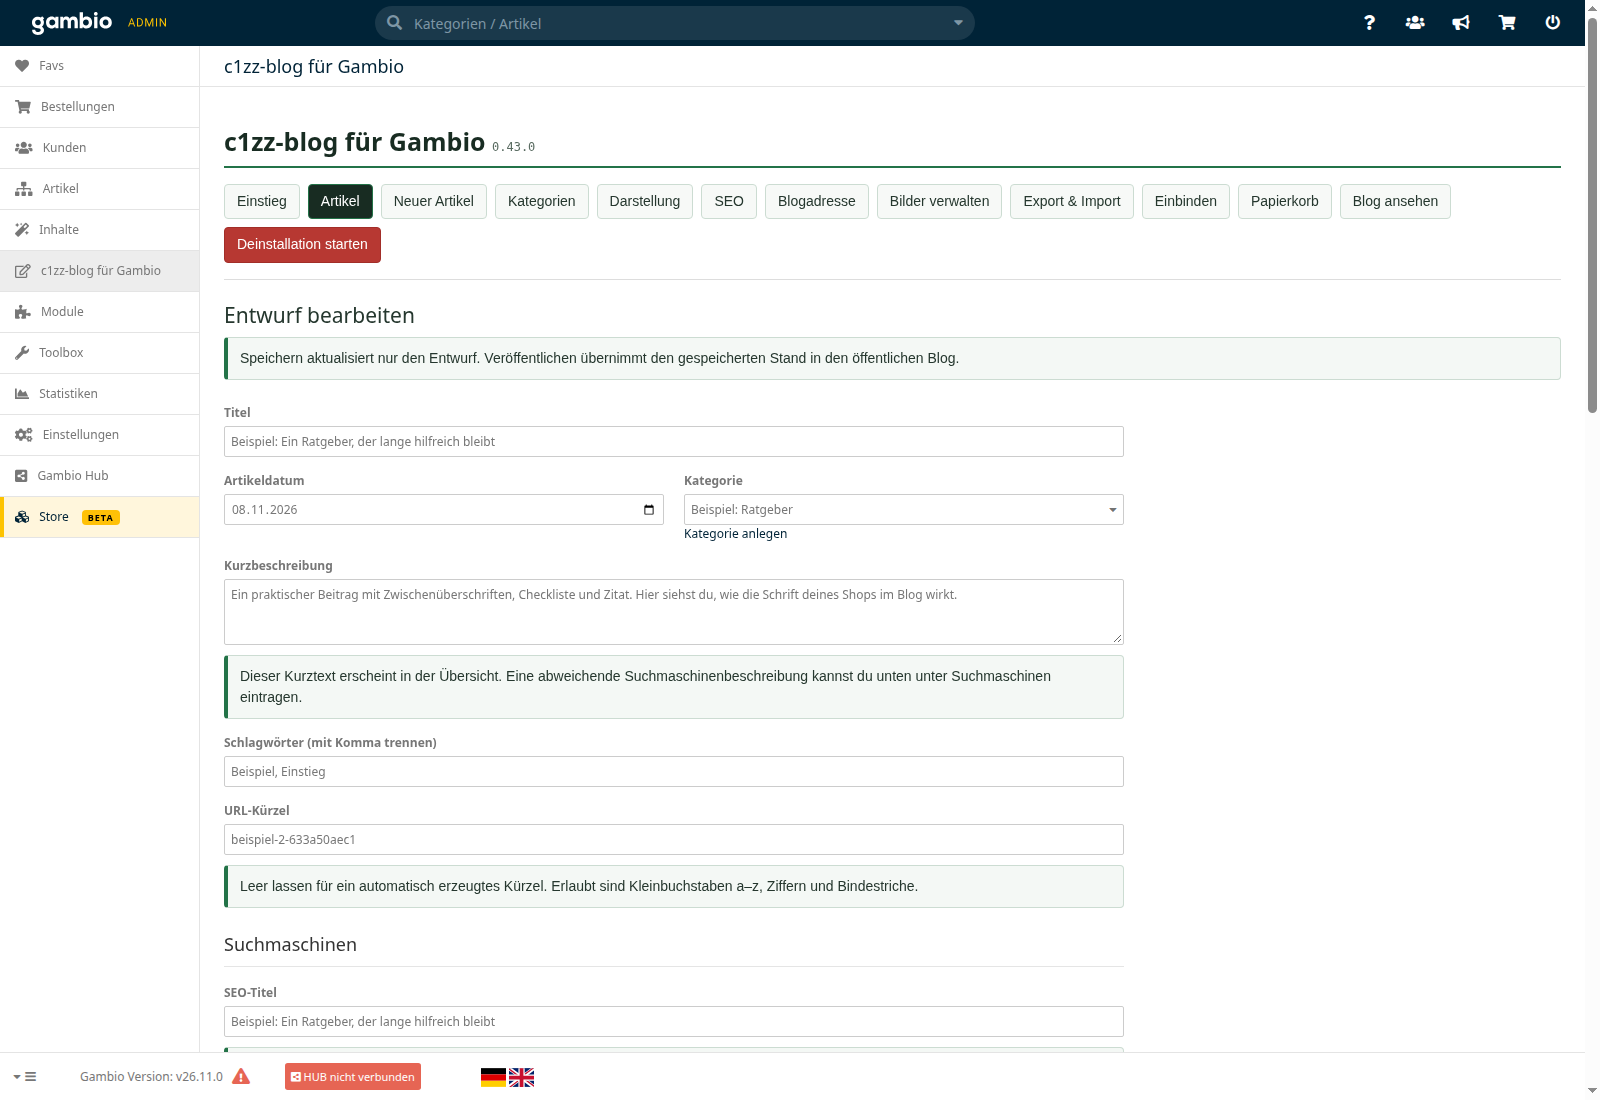
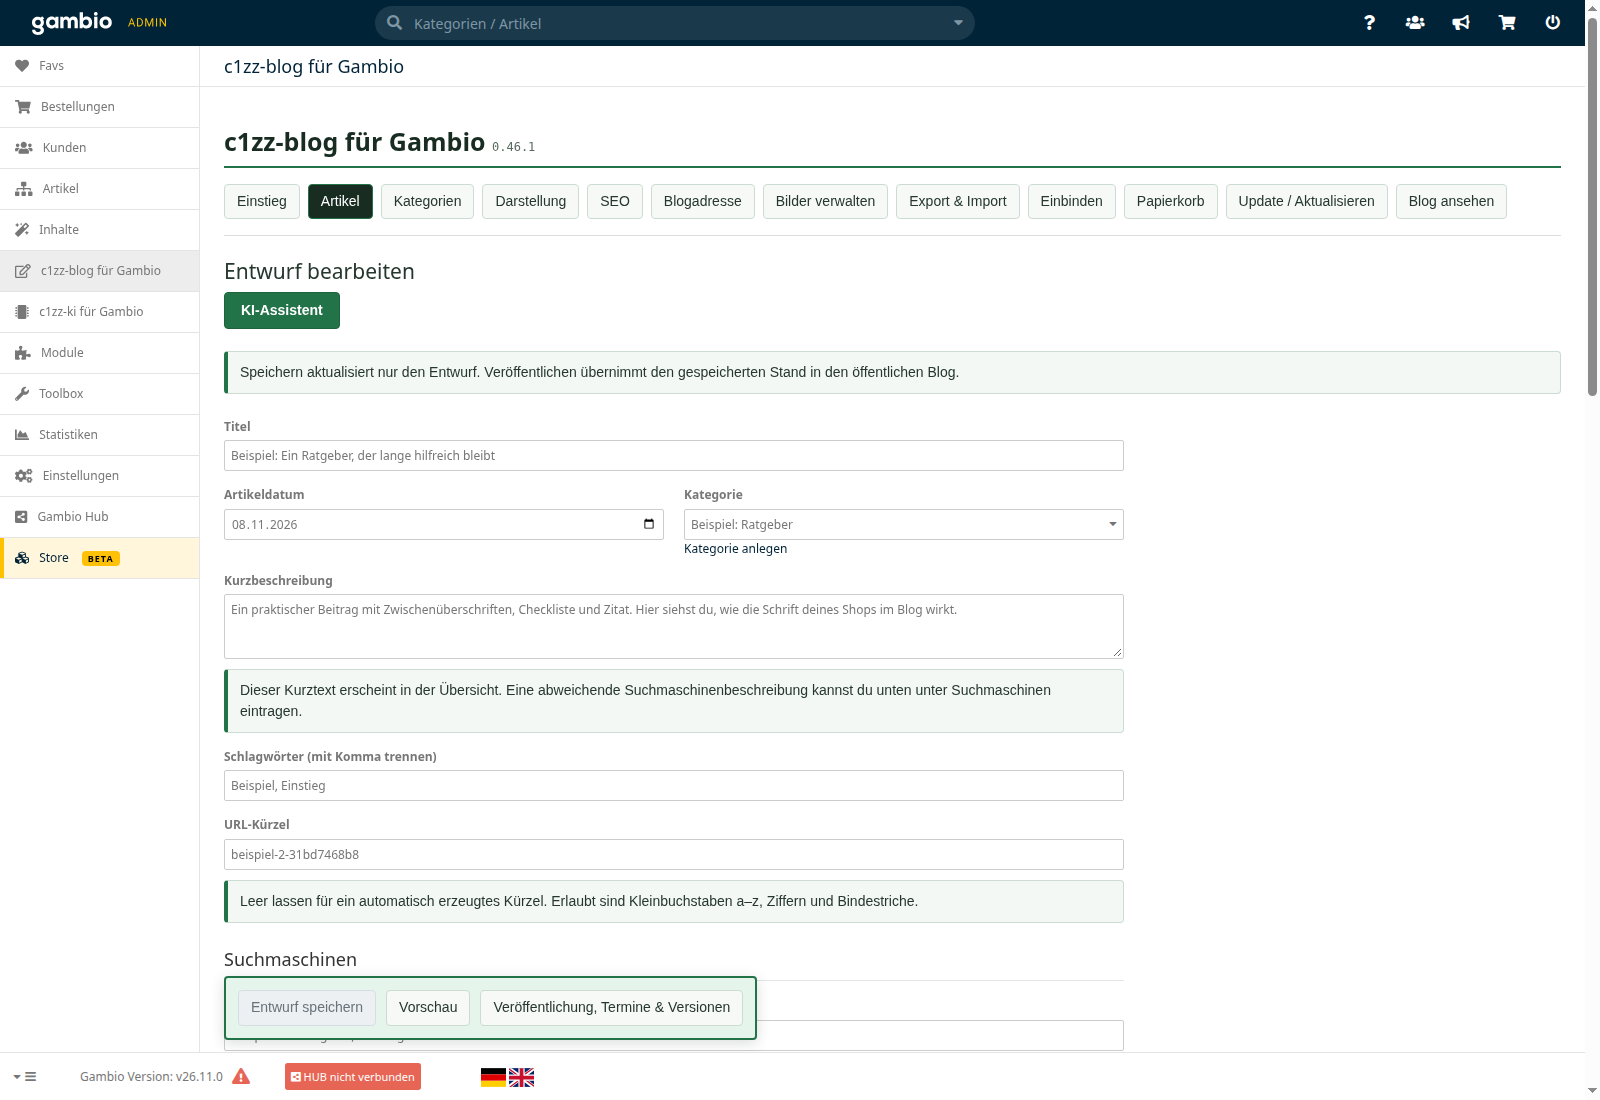
Refresh all 14 blog screenshots for 0.46.1

diff --git a/docs/BILDERRUNDGANG.md b/docs/BILDERRUNDGANG.md
@@ -1,8 +1,8 @@
 # c1zz-blog für Gambio in Bildern
 
-Dreizehn echte Ansichten zeigen den Weg vom Einstieg über das Schreiben und Gestalten bis zum öffentlichen Blog. Klicke auf ein Bild, um die Bedienelemente in Originalgröße zu lesen.
+Vierzehn aktuelle Ansichten zeigen den Weg vom Einstieg über das Schreiben und Gestalten bis zum öffentlichen Blog. Klicke auf ein Bild, um die Bedienelemente in Originalgröße zu lesen.
 
-**Aufnahmen vom 09.11.2026:** Artikelverwaltung und Modul-Center wurden mit 0.44.0 im lokalen GX26-Testshop erneuert; die Liste zeigt ausschließlich optionale Beispielartikel. Die übrigen Ansichten stammen aus 0.43.0 im damals frischen, anschließend entfernten GX26-Shop und zeigen die unveränderten Funktionen. Ältere Aufnahmen enthalten noch den früheren separaten Navigationspunkt „Neuer Artikel“. Die Detailbilder zeigen gezielte Ausschnitte. Das Erscheinungsbild hängt vom Theme und den Einstellungen ab. [Teststand](KOMPATIBILITAET.md).
+**Aufnahmen vom 10.11.2026, Blog 0.46.1 / KI 0.11.1:** Alle Ansichten wurden im lokalen Gambio-26.11.0-Shop mit Malibu neu aufgenommen. Die Artikelverwaltung ist auf die optionalen Beispielartikel gefiltert; öffentliche Ansichten zeigen Beispiel- und Testinhalte. Für die Aufnahmen wurden weder Artikel noch Einstellungen gespeichert, keine Veröffentlichung gestartet und keine KI-Anfrage ausgelöst. Die Detailbilder zeigen gezielte Ausschnitte. Das Erscheinungsbild hängt vom Theme und den Einstellungen ab. [Teststand](KOMPATIBILITAET.md).
 
 [Zur Projektübersicht](../README.md) · [Zur Installation](INSTALLATION.md)
 
@@ -21,6 +21,7 @@ Dreizehn echte Ansichten zeigen den Weg vom Einstieg über das Schreiben und Ges
 | [11. Eigenes CSS](#ansicht-11) | Vorschau, visuelle Regler und Code pro Elementtyp |
 | [12. Hilfetexte](#ansicht-12) | Hervorgehobene Hinweise in der Verwaltung |
 | [13. Modul-Center](#ansicht-13) | Einheitlicher Produktname und tatsächlicher Modulstand |
+| [14. Update / Aktualisieren](#ansicht-14) | Versionsstatus, Prüfzeit und abgeschlossener Updateablauf |
 
 <a id="ansicht-1"></a>
 
@@ -74,7 +75,7 @@ Der Ausschnitt zeigt die Freigabe eines gespeicherten Entwurfs, die Terminplanun
 
 ## 7. Darstellung mit Vorschau
 
-Im grafischen Editor wählst du Geräteansicht und Bereich, zum Beispiel Layout, Karte, Bild oder Text. Hier zeigt der Ausschnitt eine **ungespeicherte Grid-Vorschau** mit drei Spalten und den passenden Layoutoptionen. Die Grid-/Slider-Einstellungen wurden ausschließlich im kurzlebigen Screenshot-Testshop gesetzt. Die gezeigte Vorschau wurde nicht gespeichert.
+Im grafischen Editor wählst du Geräteansicht und Bereich, zum Beispiel Layout, Karte, Bild oder Text. Hier zeigt der Ausschnitt eine **Grid-Vorschau** mit drei Spalten und den passenden Layoutoptionen. Die Vorschau wurde für die Aufnahme geöffnet; gespeicherte Shop-Einstellungen wurden dabei nicht verändert.
 
 [![Grafischer Editor mit Grid-Vorschau und Layoutoptionen für Desktop](images/darstellung.png)](images/darstellung.png)
 
@@ -108,15 +109,15 @@ Bei 390 Pixeln Breite verwendet dieser Beispielshop einen Slider mit Pfeilen, Pu
 
 ## 11. Eigenes CSS am Element
 
-Regler und Farbauswahl bearbeiten dieselben Deklarationen wie der Reiter **CSS-Code**. Hier zeigen die Artikelkarten eine ungespeicherte Anpassung von Rundung, Rahmen und Hintergrund; die öffentliche Darstellung wurde für die Aufnahme nicht verändert.
+Regler und Farbauswahl bearbeiten dieselben Deklarationen wie der Reiter **CSS-Code**. Der Ausschnitt zeigt die aktuellen CSS-Werkzeuge für Artikelkarten; die öffentliche Darstellung wurde für die Aufnahme nicht verändert.
 
-[![Element-CSS mit Vorschau, Regler und Farbauswahl](images/element-css.png)](images/element-css.png)
+[![Element-CSS mit Vorschau, Gerätebereich und Eigenschaften](images/element-css.png)](images/element-css.png)
 
 <a id="ansicht-12"></a>
 
 ## 12. Sichtbare Hilfetexte
 
-Blaue Hinweisfelder heben die Erläuterungen zur Darstellung hervor. Auch Hilfen an einzelnen Eingabefeldern verwenden die gemeinsame Gestaltung.
+Hinweisfelder mit grünem Rand heben die Erläuterungen zur Darstellung hervor. Auch Hilfen an einzelnen Eingabefeldern verwenden die gemeinsame Gestaltung.
 
 [![Darstellung mit hervorgehobenen Hilfetexten](images/hilfetexte.png)](images/hilfetexte.png)
 
@@ -124,6 +125,14 @@ Blaue Hinweisfelder heben die Erläuterungen zur Darstellung hervor. Auch Hilfen
 
 ## 13. Name und Version im GX26-Modul-Center
 
-**c1zz-blog für Gambio** wird mit dem tatsächlichen Modulstand **0.45.0** angezeigt. Die Kennzeichnung **rc.1** gehört zur GitHub-Veröffentlichung.
+**c1zz-blog für Gambio** wird mit dem tatsächlichen Modulstand **0.46.1** angezeigt. Die Kennzeichnung **rc.1** gehört zur GitHub-Veröffentlichung.
 
-[![GX26-Modul-Center mit einheitlichem Namen und Version 0.45.0](images/modul-center.png)](images/modul-center.png)
+[![GX26-Modul-Center mit einheitlichem Namen und Version 0.46.1](images/modul-center.png)](images/modul-center.png)
+
+<a id="ansicht-14"></a>
+
+## 14. Update / Aktualisieren
+
+Die Modulverwaltung zeigt die installierte Version, das Ergebnis der letzten Updateprüfung und den gewählten Updatekanal. Der sichtbare Fortschritt stammt vom abgeschlossenen Update auf 0.46.1. Für die Aufnahme wurde nur erneut nach Updates gesucht, kein Update gestartet. „Blog ansehen“ bleibt in der Navigation; die Deinstallation steht separat am Seitenende.
+
+[![Aktueller Versionsstatus und abgeschlossener Updateablauf](images/aktualisieren.png)](images/aktualisieren.png)

diff --git a/README.md b/README.md
@@ -8,7 +8,7 @@ Aktuell: Deutlicher Versionsstatus unter **Update / Aktualisieren** und vollstä
 
 Artikel schreiben, Kategorien pflegen und die Darstellung direkt im Shop gestalten: **c1zz-blog für Gambio** ist ein eigenständig installierbares Blogmodul für Gambio. Du brauchst keinen vorbereiteten Blog und keine SSH-Nacharbeiten.
 
-**[Bilderrundgang mit 13 Ansichten](docs/BILDERRUNDGANG.md)** · **[Installer herunterladen](https://github.com/c1zz/gambio-blog/releases/download/v0.46.1-rc.1/c1zz-blog-install-0.46.1.php)** · **[Release & Prüfsummen](https://github.com/c1zz/gambio-blog/releases/tag/v0.46.1-rc.1)** · **[Installation](docs/INSTALLATION.md)** · **[Echtheit prüfen](SECURITY.md)**
+**[Bilderrundgang mit 14 Ansichten](docs/BILDERRUNDGANG.md)** · **[Installer herunterladen](https://github.com/c1zz/gambio-blog/releases/download/v0.46.1-rc.1/c1zz-blog-install-0.46.1.php)** · **[Release & Prüfsummen](https://github.com/c1zz/gambio-blog/releases/tag/v0.46.1-rc.1)** · **[Installation](docs/INSTALLATION.md)** · **[Echtheit prüfen](SECURITY.md)**
 
 > Dies ist ein **Release Candidate**. Bitte zuerst in einem Testshop prüfen und vor dem Einsatz den Shop sichern. Der interne Modulstand und der Dateiname lauten `0.46.1`; `rc.1` kennzeichnet diese Veröffentlichung.
 
@@ -82,11 +82,11 @@ Die grafische Darstellung und **Alle Einstellungen** bearbeiten dieselben Werte.
 
 [![Grafischer Darstellungseditor mit Grid-Vorschau, Gerätewahl und Layoutoptionen](docs/images/darstellung.png)](docs/images/darstellung.png)
 
-[![Eigenes CSS an Artikelkarten mit Regler, Farbauswahl und unmittelbarer Vorschau](docs/images/element-css.png)](docs/images/element-css.png)
+[![Eigenes CSS an Artikelkarten mit Gerätebereich, Eigenschaften und unmittelbarer Vorschau](docs/images/element-css.png)](docs/images/element-css.png)
 
 **Blogadressen bleiben steuerbar:** Beim Pfadwechsel entscheidest du, ob die bisherige Adresse weiterleiten soll. Gespeicherte Weiterleitungen kannst du unter **Blogadresse** ändern oder löschen. Hilfetexte sind im gemeinsamen c1zz-systems-Stil hervorgehoben. Entfernen, Löschen und Zurücksetzen eigener Werte sind rot markiert.
 
-Die Screenshots stammen aus dem lokalen GX26-Testshop mit Malibu und optionalen Beispielinhalten. Artikelverwaltung und Modul-Center zeigen den früheren Stand 0.44.0; die übrigen Funktionsansichten stammen aus 0.43.0 (09.11.2026). Der [Bilderrundgang](docs/BILDERRUNDGANG.md) zeigt auch den **mobilen Slider**. Das Aussehen hängt von deinem Theme und deinen Einstellungen ab.
+Alle Screenshots wurden am 10.11.2026 mit **Blog 0.46.1 und KI 0.11.1** im lokalen GX26-Testshop mit Malibu erneuert. Sie zeigen Beispiel- und Testinhalte sowie die aktuelle Navigation, Speicherleisten und Updateverwaltung. Der [Bilderrundgang](docs/BILDERRUNDGANG.md) zeigt auch den **mobilen Slider**. Das Aussehen hängt von deinem Theme und deinen Einstellungen ab.
 
 ## Was ist tatsächlich geprüft?
 

diff --git a/docs/KOMPATIBILITAET.md b/docs/KOMPATIBILITAET.md
@@ -29,6 +29,6 @@ Die GitHub-Antworten im frischen Shop waren ausschließlich in der temporären V
 
 Keine neue Freigabe für GX5, Honeygrid, PHP 8.3, MySQL 8.4 oder Unterverzeichnisinstallationen. Der neue Weg verwendet konfigurierte Shopverzeichnisse, wurde in diesem Durchlauf aber im Shop-Hauptverzeichnis geprüft. Kein unabhängiger Penetrationstest. Die Herkunftssignatur wird im Shop noch nicht kryptografisch geprüft.
 
-[Maschinelle Ergebnisse und Paketprüfsummen](test-results.json). Die vorhandenen Screenshots zeigen weiterhin die jeweils im Bilderrundgang angegebenen älteren Oberflächenstände.
+[Maschinelle Ergebnisse und Paketprüfsummen](test-results.json). Die Dokumentationsbilder wurden am 10.11.2026 separat mit Blog 0.46.1 und KI 0.11.1 erneuert; Einzelheiten stehen im Bilderrundgang.
 
 Nach der öffentlichen Freigabe: beide Installer mit dem echten Updater aus GX26 ohne GitHub-Zugangsdaten heruntergeladen und alle 197 Paketdateien geprüft, ohne Moduldateien zu verändern. Weitere 6 native Chromiumprüfungen bestätigen die echten GitHub-Abfragen beider Updatebereiche. Herkunftsnachweise mit der GitHub CLI gegen Repository, Workflow, Release-Tag und exakten Commit erfolgreich verifiziert. Veröffentlichte Assets stimmen mit den lokalen Prüfsummen überein; Vorgängerassets blieben unverändert.
